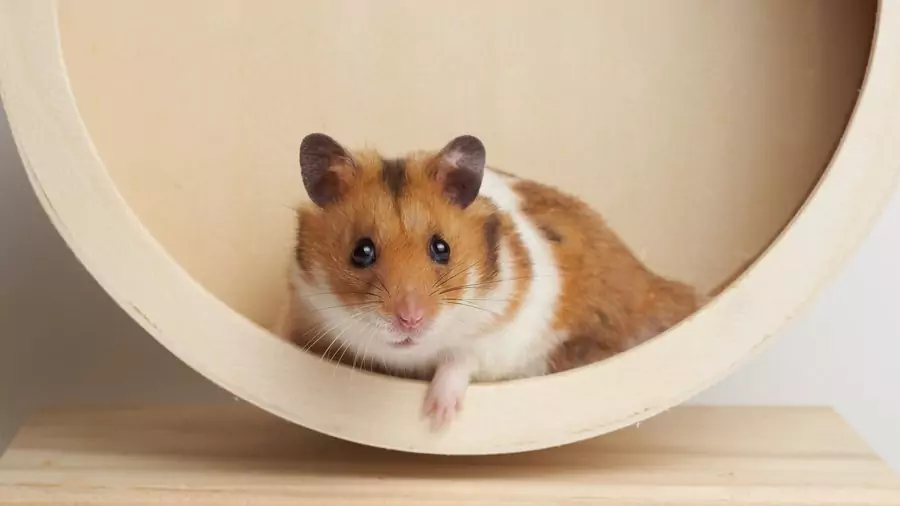
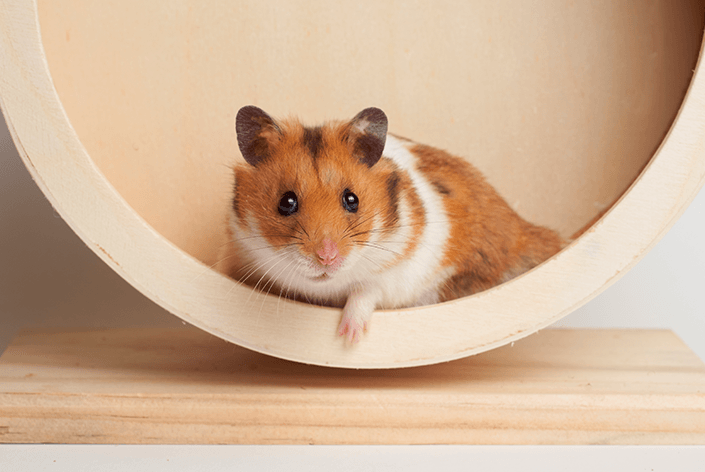
textos e imagens

diff --git a/projeto-mobile-ado-o-pets/app/(tabs)/jor.tsx b/projeto-mobile-ado-o-pets/app/(tabs)/jor.tsx
@@ -1,0 +1,112 @@
+import { Image } from 'expo-image';
+import { StyleSheet } from 'react-native';
+
+import ParallaxScrollView from '@/components/parallax-scroll-view';
+import { ThemedText } from '@/components/themed-text';
+import { ThemedView } from '@/components/themed-view';
+import { Link } from 'expo-router';
+
+export default function HomeScreen() {
+  return (
+    <ParallaxScrollView
+      headerBackgroundColor={{ light: '#ffffff', dark: '#ffffff' }}
+      headerImage={
+        <Image
+          source={require('@/assets/images/petlogo.png')}
+          style={styles.reactLogo}
+        />
+      }>
+         <Image
+          source={require('@/assets/images/pip.png')}
+          style={styles.pip}
+        />
+      <ThemedView style={styles.titleContainer}>
+        <ThemedText type="title">PIP | 3 MESES</ThemedText>
+        
+        
+      </ThemedView>
+      <ThemedView style={styles.stepContainer}>
+        <ThemedText type="subtitle">Curitiba, Batel<br></br></ThemedText>
+        <ThemedText>
+            <ThemedText type='subtitle'>28/07/2025</ThemedText>
+            <br></br>
+            <ThemedText type='title'>HISTÓRIA DE PIP</ThemedText>
+          <ThemedText type="defaultSemiBold">
+          </ThemedText>{' '}
+         
+        </ThemedText>
+      </ThemedView>
+      
+      <ThemedView style={styles.stepContainer}>
+        <Link href="/modal">
+          <Link.Trigger>
+            <ThemedText type="subtitle"></ThemedText>
+          </Link.Trigger>
+          <Link.Preview />
+          <Link.Menu>
+            <Link.MenuAction title="Action" icon="cube" onPress={() => alert('Action pressed')} />
+            <Link.MenuAction
+              title="Share"
+              icon="square.and.arrow.up"
+              onPress={() => alert('Share pressed')}
+            />
+            <Link.Menu title="More" icon="ellipsis">
+              <Link.MenuAction
+                title="Delete"
+                icon="trash"
+                destructive
+                onPress={() => alert('Delete pressed')}
+              />
+            </Link.Menu>
+          </Link.Menu>
+        </Link>
+
+       
+      </ThemedView>
+      <ThemedView style={styles.stepContainer}>
+        <ThemedText type="subtitle"></ThemedText>
+        <ThemedText>
+          
+          {`
+ `}
+
+      
+          
+        </ThemedText>
+      </ThemedView>
+    </ParallaxScrollView>
+    
+  );
+}
+
+const styles = StyleSheet.create({
+  titleContainer: {
+    flexDirection: 'row',
+    alignItems: 'center',
+    gap: 3,
+  },
+  stepContainer: {
+    gap: 1,
+    marginBottom: 4,
+   
+  },
+  reactLogo: {
+    height: 178,
+    width: 290,
+    bottom: 40,
+    left: 40,
+    position:'absolute'
+    
+  },
+  pip: {
+    height: 200,
+    width: 295,
+    bottom: 10,
+    left: 5,
+    borderRadius: 15,
+    shadowRadius: 34,
+    shadowColor: "#ffffff"
+  },
+ 
+ 
+});
